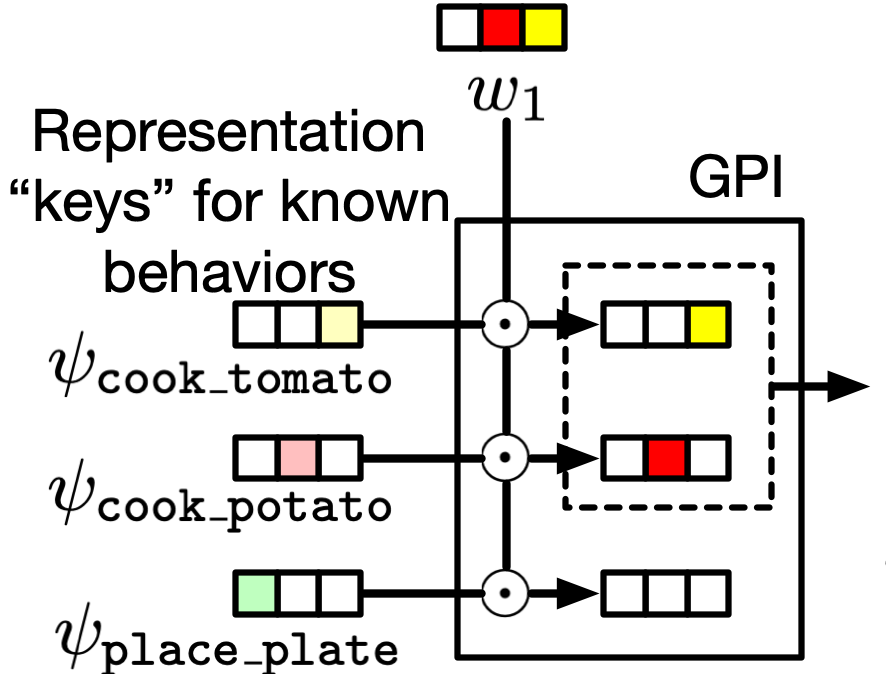
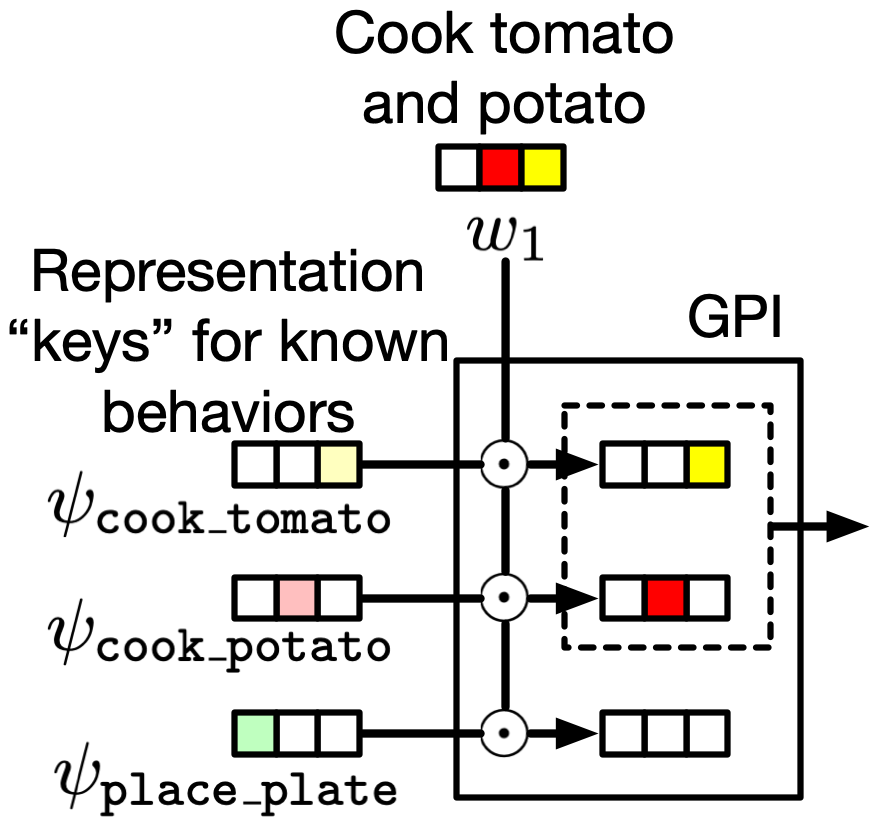
minor

Changed region(s): [[0.0, 0.0, 0.9908, 1.0]]

diff --git a/_includes/news.html b/_includes/news.html
@@ -1,3 +1,6 @@
+- **November, 2023:** Talk to computational cognitive science group at Princeton!
+- **October, 2023:** Sharing neuro-AI research with undergrads at Calstate LA!
+- **October, 2023:** Talk to neuro-theory seminar at Harvard!
 - **October, 2023:** 1 paper on successor features accepted to NeurIPS, 2023!
 - **Aug, 2023:** Gave contributed talk at Harvard RL day on Modular Successor Feature Approximators.
 - **Jul, 2023:** Successfully defended my Disseratation.
